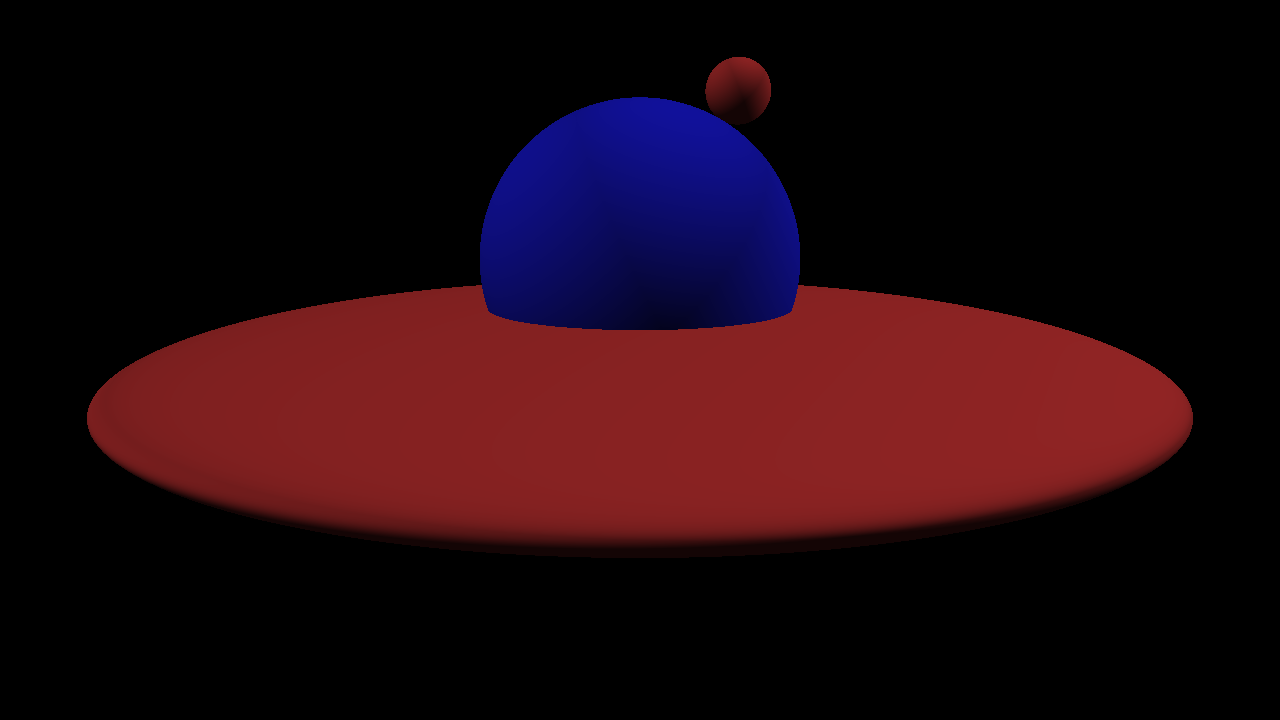
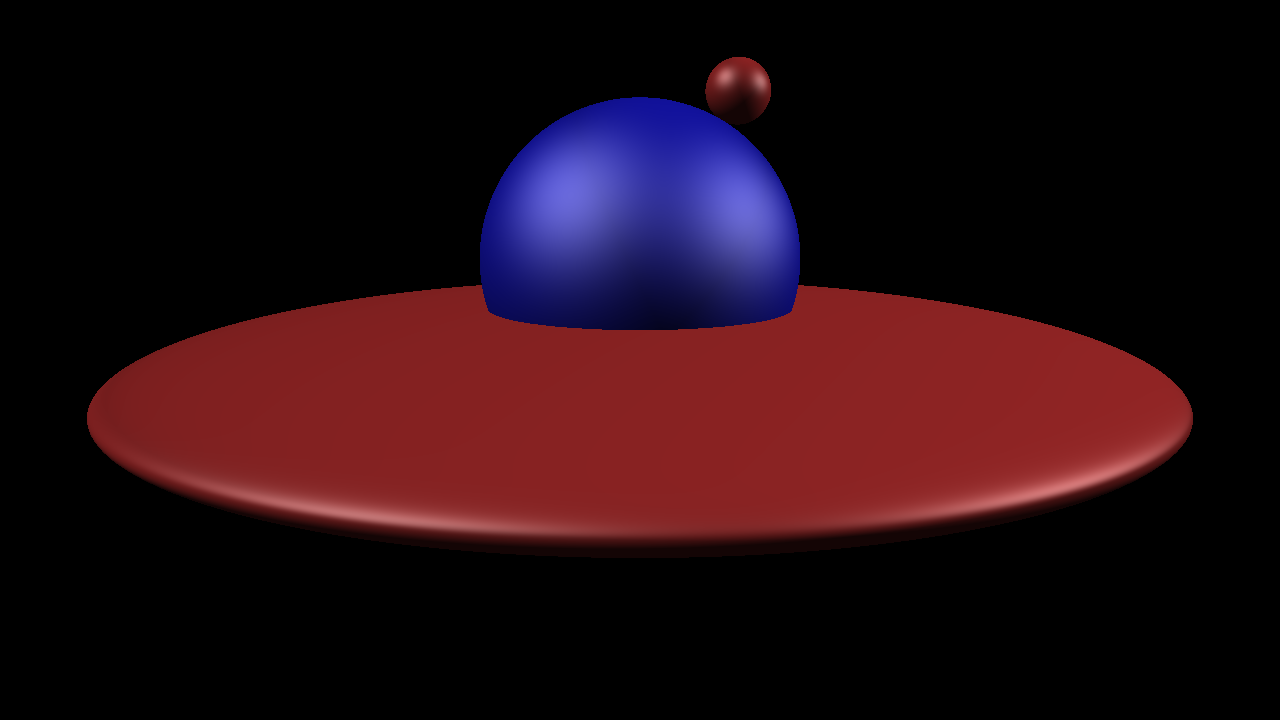
Implemented specular lighting to blinn

diff --git a/src/Materials.cpp b/src/Materials.cpp
@@ -27,9 +27,9 @@ Color MtlBlinn::Shade(Ray const &ray, HitInfo const &hInfo, LightList const &lig
         const float geometryTerm{ std::max(0.0f, normal.Dot(lightDir)) };
         finalColor += diffuse * lightIntensity * geometryTerm;
 
-        //const Vec3f halfway{ (ray.dir + lightDir).GetNormalized() };
-        //const float blinnTerm{ std::max(0.0f, normal.Dot(halfway)) };
-        //finalColor += specular * blinnTerm * lightIntensity;
+        const Vec3f halfway{ (-ray.dir.GetNormalized() + lightDir).GetNormalized() };
+        const float blinnTerm{ std::max(0.0f, normal.Dot(halfway)) };
+        finalColor += specular * pow(blinnTerm, glossiness) * lightIntensity;
     }
 
     return finalColor;

diff --git a/src/main.cpp b/src/main.cpp
@@ -35,7 +35,6 @@ bool shootRay(const Node* const node, const Ray& ray, HitInfo& bestHitInfo)
             if (childHitInfo.z < bestHitInfo.z)
             {
                 bestHitInfo = childHitInfo;
-                //bestHitInfo.node = childNode;
                 node->FromNodeCoords(bestHitInfo);
             }
             hitObject = true;
